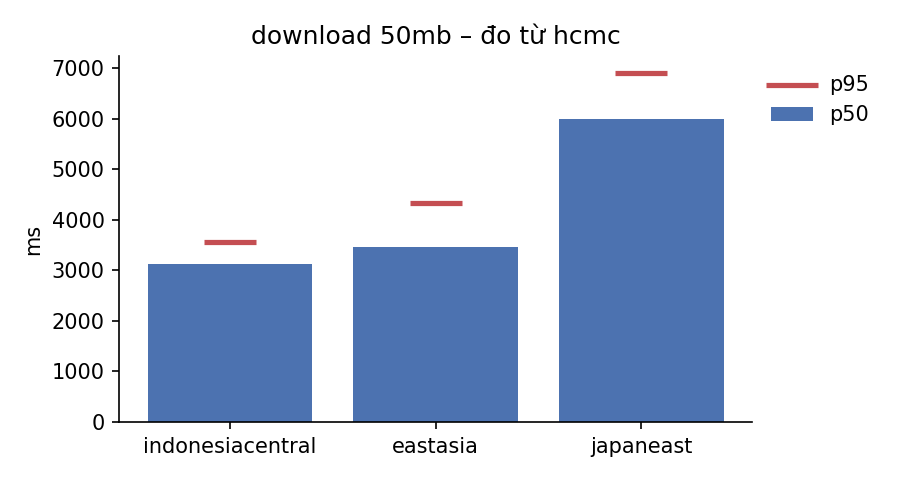
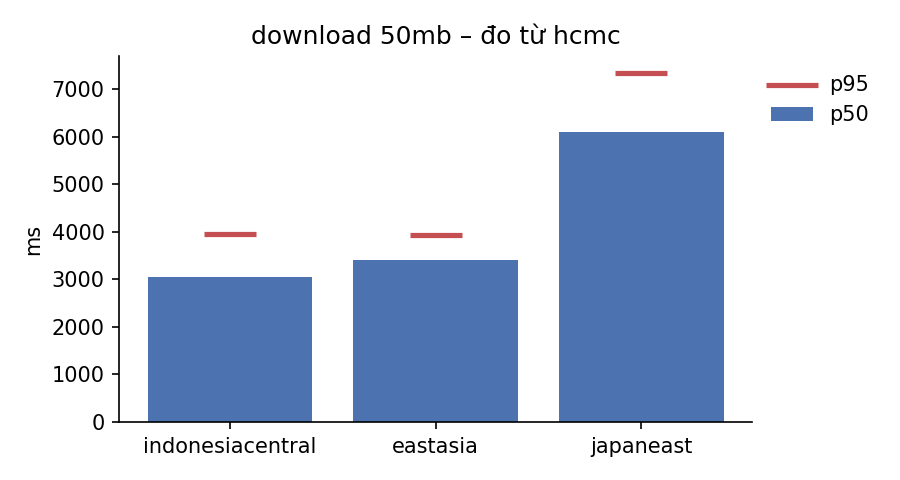
rerun 50mb hcmc

diff --git a/perf/results/summary.md b/perf/results/summary.md
@@ -3,32 +3,32 @@
 | hcmc        | eastasia         | download | 10mb         |     30 |        30 |   648.13 |  1273.1  |         15.43 |
 | hcmc        | eastasia         | download | 1kb          |     30 |        30 |    57.71 |    66.03 |        nan    |
 | hcmc        | eastasia         | download | 1mb          |     30 |        30 |    92.24 |   159.81 |         10.84 |
-| hcmc        | eastasia         | download | 50mb         |     30 |        30 |  3468.66 |  4336.16 |         14.41 |
+| hcmc        | eastasia         | download | 50mb         |     30 |        30 |  3403.65 |  3929.93 |         14.69 |
 | hcmc        | eastasia         | head     | 1kb          |     30 |        30 |    53.34 |    58.38 |        nan    |
 | hcmc        | eastasia         | score    |              |     30 |        30 |   217.02 |   237.35 |        nan    |
 | hcmc        | eastasia         | upload   | 10mb         |     30 |        30 |   564.95 |  1106.87 |         17.7  |
 | hcmc        | eastasia         | upload   | 1kb          |     30 |        30 |    66.46 |    72.33 |        nan    |
 | hcmc        | eastasia         | upload   | 1mb          |     30 |        30 |    95.02 |   141.2  |         10.52 |
-| hcmc        | eastasia         | upload   | 50mb         |     30 |        30 |  9218.38 | 18900.4  |          5.42 |
+| hcmc        | eastasia         | upload   | 50mb         |     30 |        30 |  3452.29 |  6879.84 |         14.48 |
 | hcmc        | indonesiacentral | download | 10mb         |     30 |        30 |   624.86 |   717.38 |         16    |
 | hcmc        | indonesiacentral | download | 1kb          |     30 |        30 |    54.7  |    60.83 |        nan    |
 | hcmc        | indonesiacentral | download | 1mb          |     30 |        30 |    68.91 |   107.42 |         14.51 |
-| hcmc        | indonesiacentral | download | 50mb         |     30 |        30 |  3122.92 |  3563.48 |         16.01 |
+| hcmc        | indonesiacentral | download | 50mb         |     30 |        30 |  3046.06 |  3944.61 |         16.41 |
 | hcmc        | indonesiacentral | head     | 1kb          |     30 |        30 |    54.24 |    59.78 |        nan    |
 | hcmc        | indonesiacentral | upload   | 10mb         |     30 |        30 |   458.15 |   614    |         21.83 |
 | hcmc        | indonesiacentral | upload   | 1kb          |     30 |        30 |    54.24 |    63.95 |        nan    |
 | hcmc        | indonesiacentral | upload   | 1mb          |     30 |        30 |    80.71 |    97.49 |         12.39 |
-| hcmc        | indonesiacentral | upload   | 50mb         |     30 |        30 |  2076.9  |  2653.98 |         24.07 |
+| hcmc        | indonesiacentral | upload   | 50mb         |     30 |        30 |  2291.71 |  2759.84 |         21.82 |
 | hcmc        | japaneast        | download | 10mb         |     30 |        30 |  1283.61 |  2328.83 |          7.79 |
 | hcmc        | japaneast        | download | 1kb          |     30 |        30 |    98.43 |   104.17 |        nan    |
 | hcmc        | japaneast        | download | 1mb          |     30 |        30 |   166.35 |   290.25 |          6.01 |
-| hcmc        | japaneast        | download | 50mb         |     30 |        30 |  5996.1  |  6894.68 |          8.34 |
+| hcmc        | japaneast        | download | 50mb         |     30 |        30 |  6092.76 |  7329.04 |          8.21 |
 | hcmc        | japaneast        | head     | 1kb          |     30 |        30 |    97.59 |   103.31 |        nan    |
 | hcmc        | japaneast        | score    |              |     30 |        30 |   245.72 |   258.22 |        nan    |
 | hcmc        | japaneast        | upload   | 10mb         |     30 |        30 |  1294    |  2413.83 |          7.73 |
 | hcmc        | japaneast        | upload   | 1kb          |     30 |        30 |   101.2  |   107.46 |        nan    |
 | hcmc        | japaneast        | upload   | 1mb          |     30 |        30 |   193.2  |   265.75 |          5.18 |
-| hcmc        | japaneast        | upload   | 50mb         |     30 |        30 | 24034.1  | 34221.8  |          2.08 |
+| hcmc        | japaneast        | upload   | 50mb         |     30 |        30 |  3763.23 |  6100.97 |         13.29 |
 | vm-eastasia | eastasia         | download | 10mb         |     30 |        30 |   152.55 |   251.76 |         65.55 |
 | vm-eastasia | eastasia         | download | 1kb          |     30 |        30 |    10.35 |    14.85 |        nan    |
 | vm-eastasia | eastasia         | download | 1mb          |     30 |        30 |    20.71 |    24.33 |         48.28 |
